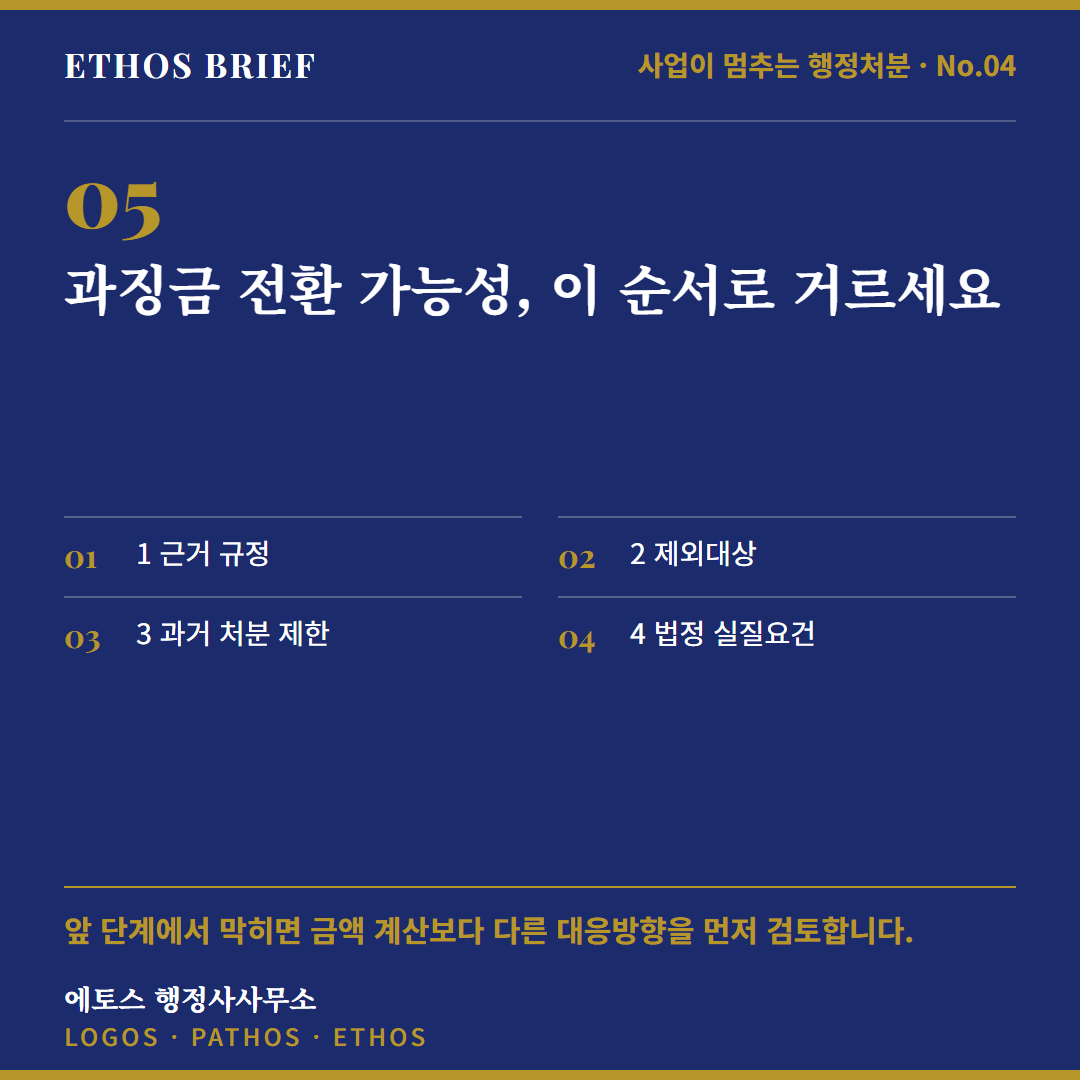
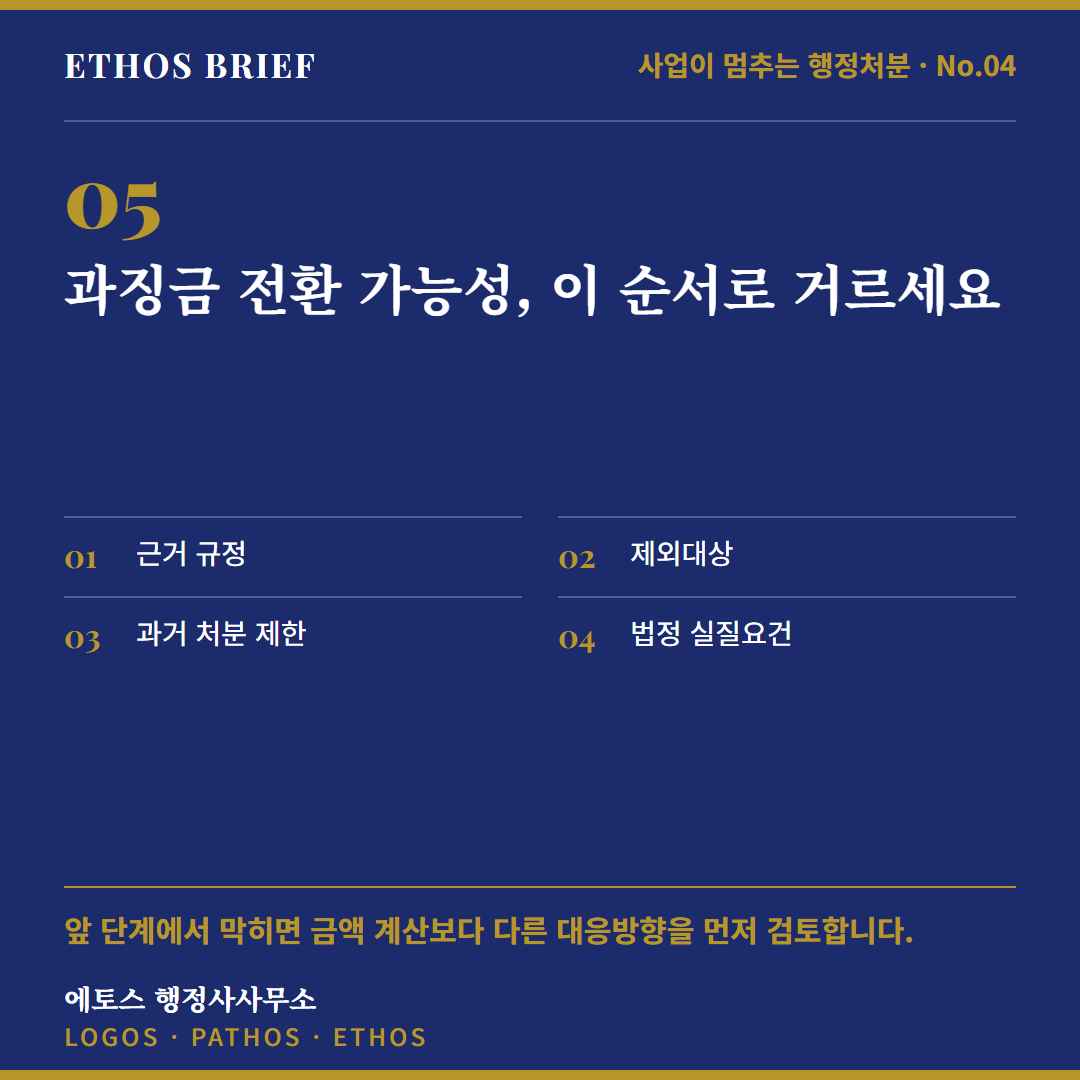
fix: remove duplicate step numbering

Changed region(s): [[0.5806, 0.4889, 0.7639, 0.6111], [0.1222, 0.55, 0.3056, 0.6111], [0.1222, 0.4889, 0.2444, 0.5194]]

diff --git a/content/SUSPENSION-SURCHARGE-04/ko/card_10.html b/content/SUSPENSION-SURCHARGE-04/ko/card_10.html
@@ -11,7 +11,7 @@
   <div class="hl" data-frame="line"></div>
   <div class="body">
     <div class="z-title" data-zone="title"><div class="kicker-num" data-decor>10</div><h2 class="h2" data-role="headline">과징금은 출발점이 아니라 네 번째 판단입니다</h2></div>
-    <div class="z-main" data-zone="main"><div class="six-grid"><div class="six-item"><div class="six-num" data-role="label">01</div><div class="six-copy">1 위반사실이 맞는가</div></div><div class="six-item"><div class="six-num" data-role="label">02</div><div class="six-copy">2 적용조항·처분기준이 맞는가</div></div><div class="six-item"><div class="six-num" data-role="label">03</div><div class="six-copy">3 영업정지기간이 맞는가</div></div><div class="six-item"><div class="six-num" data-role="label">04</div><div class="six-copy">4 과징금 전환이 가능한가</div></div><div class="six-item"><div class="six-num" data-role="label">05</div><div class="six-copy">5 전환이 실제로 유리한가</div></div></div></div>
+    <div class="z-main" data-zone="main"><div class="six-grid"><div class="six-item"><div class="six-num" data-role="label">01</div><div class="six-copy">위반사실이 맞는가</div></div><div class="six-item"><div class="six-num" data-role="label">02</div><div class="six-copy">적용조항·처분기준이 맞는가</div></div><div class="six-item"><div class="six-num" data-role="label">03</div><div class="six-copy">영업정지기간이 맞는가</div></div><div class="six-item"><div class="six-num" data-role="label">04</div><div class="six-copy">과징금 전환이 가능한가</div></div><div class="six-item"><div class="six-num" data-role="label">05</div><div class="six-copy">전환이 실제로 유리한가</div></div></div></div>
     <div class="z-take" data-zone="take"><div class="take" data-role="takeaway">사전통지서·과거 처분내역·매출 및 고정비 자료를 바탕으로 전환 가능성, 예상 과징금 확인 경로, 실제 실익의 검토 순서를 무료로 확인할 수 있습니다.</div></div>
   </div>
 

diff --git a/content/SUSPENSION-SURCHARGE-04/en/card_10.html b/content/SUSPENSION-SURCHARGE-04/en/card_10.html
@@ -11,7 +11,7 @@
   <div class="hl" data-frame="line"></div>
   <div class="body">
     <div class="z-title" data-zone="title"><div class="kicker-num" data-decor>10</div><h2 class="h2" data-role="headline">A surcharge is step four—not step one</h2></div>
-    <div class="z-main" data-zone="main"><div class="six-grid"><div class="six-item"><div class="six-num" data-role="label">01</div><div class="six-copy">1 Are the facts correct?</div></div><div class="six-item"><div class="six-num" data-role="label">02</div><div class="six-copy">2 Are the provision and standard correct?</div></div><div class="six-item"><div class="six-num" data-role="label">03</div><div class="six-copy">3 Is the suspension period correct?</div></div><div class="six-item"><div class="six-num" data-role="label">04</div><div class="six-copy">4 Is a surcharge available?</div></div><div class="six-item"><div class="six-num" data-role="label">05</div><div class="six-copy">5 Would conversion help?</div></div></div></div>
+    <div class="z-main" data-zone="main"><div class="six-grid"><div class="six-item"><div class="six-num" data-role="label">01</div><div class="six-copy">Are the facts correct?</div></div><div class="six-item"><div class="six-num" data-role="label">02</div><div class="six-copy">Are the provision and standard correct?</div></div><div class="six-item"><div class="six-num" data-role="label">03</div><div class="six-copy">Is the suspension period correct?</div></div><div class="six-item"><div class="six-num" data-role="label">04</div><div class="six-copy">Is a surcharge available?</div></div><div class="six-item"><div class="six-num" data-role="label">05</div><div class="six-copy">Would conversion help?</div></div></div></div>
     <div class="z-take" data-zone="take"><div class="take" data-role="takeaway">A free review can use your notice, prior dispositions and financial records to map eligibility, the calculation route and business impact.</div></div>
   </div>
 

diff --git a/content/SUSPENSION-SURCHARGE-04/ko/card_02.html b/content/SUSPENSION-SURCHARGE-04/ko/card_02.html
@@ -11,7 +11,7 @@
   <div class="hl" data-frame="line"></div>
   <div class="body">
     <div class="z-title" data-zone="title"><div class="kicker-num" data-decor>02</div><h2 class="h2" data-role="headline">과징금 계산보다 먼저, 네 가지를 확인하세요</h2></div>
-    <div class="z-main" data-zone="main"><div class="thresholds"><div class="threshold"><div class="threshold-key" data-role="label">1</div><div class="threshold-copy">① 근거법률에 과징금 규정이 있나요?</div></div><div class="threshold"><div class="threshold-key" data-role="label">2</div><div class="threshold-copy">② 이번 위반은 제외대상인가요?</div></div><div class="threshold"><div class="threshold-key" data-role="label">3</div><div class="threshold-copy">③ 과거 처분 때문에 제한되나요?</div></div><div class="threshold"><div class="threshold-key" data-role="label">4</div><div class="threshold-copy">④ 가능하다면 실제로 유리한가요?</div></div></div></div>
+    <div class="z-main" data-zone="main"><div class="thresholds"><div class="threshold"><div class="threshold-key" data-role="label">1</div><div class="threshold-copy">근거법률에 과징금 규정이 있나요?</div></div><div class="threshold"><div class="threshold-key" data-role="label">2</div><div class="threshold-copy">이번 위반은 제외대상인가요?</div></div><div class="threshold"><div class="threshold-key" data-role="label">3</div><div class="threshold-copy">과거 처분 때문에 제한되나요?</div></div><div class="threshold"><div class="threshold-key" data-role="label">4</div><div class="threshold-copy">가능하다면 실제로 유리한가요?</div></div></div></div>
     <div class="z-take" data-zone="take"><div class="editorial-close" data-role="takeaway">가능성과 실익은 서로 다른 질문입니다.</div></div>
   </div>
 

diff --git a/content/SUSPENSION-SURCHARGE-04/en/card_02.html b/content/SUSPENSION-SURCHARGE-04/en/card_02.html
@@ -11,7 +11,7 @@
   <div class="hl" data-frame="line"></div>
   <div class="body">
     <div class="z-title" data-zone="title"><div class="kicker-num" data-decor>02</div><h2 class="h2" data-role="headline">Before estimating the amount, run these four checks</h2></div>
-    <div class="z-main" data-zone="main"><div class="thresholds"><div class="threshold"><div class="threshold-key" data-role="label">1</div><div class="threshold-copy">1 Does the governing Act allow a surcharge?</div></div><div class="threshold"><div class="threshold-key" data-role="label">2</div><div class="threshold-copy">2 Is this violation excluded?</div></div><div class="threshold"><div class="threshold-key" data-role="label">3</div><div class="threshold-copy">3 Does a prior disposition restrict it?</div></div><div class="threshold"><div class="threshold-key" data-role="label">4</div><div class="threshold-copy">4 If available, would it actually help?</div></div></div></div>
+    <div class="z-main" data-zone="main"><div class="thresholds"><div class="threshold"><div class="threshold-key" data-role="label">1</div><div class="threshold-copy">Does the governing Act allow a surcharge?</div></div><div class="threshold"><div class="threshold-key" data-role="label">2</div><div class="threshold-copy">Is this violation excluded?</div></div><div class="threshold"><div class="threshold-key" data-role="label">3</div><div class="threshold-copy">Does a prior disposition restrict it?</div></div><div class="threshold"><div class="threshold-key" data-role="label">4</div><div class="threshold-copy">If available, would it actually help?</div></div></div></div>
     <div class="z-take" data-zone="take"><div class="editorial-close" data-role="takeaway">Legal availability and business value are different questions.</div></div>
   </div>
 

diff --git a/content/SUSPENSION-SURCHARGE-04/en/card_05.html b/content/SUSPENSION-SURCHARGE-04/en/card_05.html
@@ -11,7 +11,7 @@
   <div class="hl" data-frame="line"></div>
   <div class="body">
     <div class="z-title" data-zone="title"><div class="kicker-num" data-decor>05</div><h2 class="h2" data-role="headline">Screen surcharge eligibility in this order</h2></div>
-    <div class="z-main" data-zone="main"><div class="process-steps"><div class="process-step"><div class="process-num" data-decor>01</div><div class="process-copy">1 Enabling provision</div></div><div class="process-step"><div class="process-num" data-decor>02</div><div class="process-copy">2 Statutory exclusions</div></div><div class="process-step"><div class="process-num" data-decor>03</div><div class="process-copy">3 Prior-disposition limits</div></div><div class="process-step"><div class="process-num" data-decor>04</div><div class="process-copy">4 Substantive conditions</div></div></div></div>
+    <div class="z-main" data-zone="main"><div class="process-steps"><div class="process-step"><div class="process-num" data-decor>01</div><div class="process-copy">Enabling provision</div></div><div class="process-step"><div class="process-num" data-decor>02</div><div class="process-copy">Statutory exclusions</div></div><div class="process-step"><div class="process-num" data-decor>03</div><div class="process-copy">Prior-disposition limits</div></div><div class="process-step"><div class="process-num" data-decor>04</div><div class="process-copy">Substantive conditions</div></div></div></div>
     <div class="z-take" data-zone="take"><div class="editorial-close" data-role="takeaway">If an early gate fails, consider another response before calculating the amount.</div></div>
   </div>
 

diff --git a/content/SUSPENSION-SURCHARGE-04/ko/card_05.html b/content/SUSPENSION-SURCHARGE-04/ko/card_05.html
@@ -11,7 +11,7 @@
   <div class="hl" data-frame="line"></div>
   <div class="body">
     <div class="z-title" data-zone="title"><div class="kicker-num" data-decor>05</div><h2 class="h2" data-role="headline">과징금 전환 가능성, 이 순서로 거르세요</h2></div>
-    <div class="z-main" data-zone="main"><div class="process-steps"><div class="process-step"><div class="process-num" data-decor>01</div><div class="process-copy">1 근거 규정</div></div><div class="process-step"><div class="process-num" data-decor>02</div><div class="process-copy">2 제외대상</div></div><div class="process-step"><div class="process-num" data-decor>03</div><div class="process-copy">3 과거 처분 제한</div></div><div class="process-step"><div class="process-num" data-decor>04</div><div class="process-copy">4 법정 실질요건</div></div></div></div>
+    <div class="z-main" data-zone="main"><div class="process-steps"><div class="process-step"><div class="process-num" data-decor>01</div><div class="process-copy">근거 규정</div></div><div class="process-step"><div class="process-num" data-decor>02</div><div class="process-copy">제외대상</div></div><div class="process-step"><div class="process-num" data-decor>03</div><div class="process-copy">과거 처분 제한</div></div><div class="process-step"><div class="process-num" data-decor>04</div><div class="process-copy">법정 실질요건</div></div></div></div>
     <div class="z-take" data-zone="take"><div class="editorial-close" data-role="takeaway">앞 단계에서 막히면 금액 계산보다 다른 대응방향을 먼저 검토합니다.</div></div>
   </div>
 

diff --git a/scripts/build_cards.py b/scripts/build_cards.py
@@ -5,6 +5,7 @@ import argparse
 import html
 import json
 import pathlib
+import re
 
 
 def esc(value):
@@ -19,6 +20,11 @@ def split_label(text):
         label, copy = text.split(" — ", 1)
         return label.strip(), copy.strip()
     return "", text.strip()
+
+
+def strip_step_prefix(text):
+    """Remove author-supplied list numbers when the layout renders its own."""
+    return re.sub(r"^\s*(?:[①②③④⑤⑥⑦⑧⑨⑩]|\d{1,2}[.)]?)\s+", "", str(text)).strip()
 
 
 def main_markup(card, language):
@@ -52,7 +58,7 @@ def main_markup(card, language):
     if kind == "process":
         items = []
         for index, copy in enumerate(body, 1):
-            clean = copy[2:].strip() if len(copy) > 2 and copy[0] in "①②③④⑤⑥" else copy
+            clean = strip_step_prefix(copy)
             items.append(f'<div class="process-step"><div class="process-num" data-decor>{index:02d}</div><div class="process-copy">{esc(clean)}</div></div>')
         return '<div class="process-steps">' + ''.join(items) + '</div>'
     if kind == "checklist" and page == 6:
@@ -65,7 +71,7 @@ def main_markup(card, language):
         else:
             labels = [str(i) for i in range(1, len(body) + 1)]
         for label, copy in zip(labels, body):
-            rows.append(f'<div class="threshold"><div class="threshold-key" data-role="label">{esc(label)}</div><div class="threshold-copy">{esc(copy)}</div></div>')
+            rows.append(f'<div class="threshold"><div class="threshold-key" data-role="label">{esc(label)}</div><div class="threshold-copy">{esc(strip_step_prefix(copy))}</div></div>')
         return '<div class="thresholds">' + ''.join(rows) + '</div>'
     if kind == "cta":
         if len(body) == 2:
@@ -76,7 +82,7 @@ def main_markup(card, language):
             return '<div class="split">' + ''.join(cols) + '</div>'
         items = []
         for index, copy in enumerate(body, 1):
-            clean = copy[2:].strip() if len(copy) > 2 and copy[0] in "①②③④⑤⑥" else copy
+            clean = strip_step_prefix(copy)
             items.append(f'<div class="six-item"><div class="six-num" data-role="label">{index:02d}</div><div class="six-copy">{esc(clean)}</div></div>')
         return '<div class="six-grid">' + ''.join(items) + '</div>'
     return '<div class="body-text">' + '<br>'.join(esc(x) for x in body) + '</div>'

diff --git a/content/SUSPENSION-SURCHARGE-04/out/en/qa-report.md b/content/SUSPENSION-SURCHARGE-04/out/en/qa-report.md
@@ -5,18 +5,18 @@
 | 카드 | 유형 | 글자수 | 본문 채움 | 하단 여백 | 결과 |
 |---|---|---|---|---|---|
 | card_01.html | cover | 178 | 0.6 | 14 | PASS |
-| card_02.html | checklist | 232 | 0.64 | 14 | PASS |
+| card_02.html | checklist | 228 | 0.64 | 14 | PASS |
 | card_03.html | quote | 326 | 0.59 | 14 | PASS |
 | card_04.html | comparison | 268 | 0.85 | 14 | PASS |
-| card_05.html | process | 200 | 0.37 | 14 | PASS |
+| card_05.html | process | 196 | 0.37 | 14 | PASS |
 | card_06.html | quote | 332 | 0.63 | 14 | PASS |
 | card_07.html | checklist | 246 | 0.76 | 14 | PASS |
 | card_08.html | comparison | 242 | 0.79 | 14 | PASS |
 | card_09.html | concept | 258 | 0.92 | 14 | PASS |
-| card_10.html | cta | 290 | 1.0 | 14 | PASS |
+| card_10.html | cta | 285 | 1.0 | 14 | PASS |
 
 ### card_02.html 권고
-- chars 232 > 권장 180 (가독성 확인)
+- chars 228 > 권장 180 (가독성 확인)
 - headline-chars 44 > 권장 34
 
 ### card_03.html 권고
@@ -29,7 +29,7 @@
 
 ### card_05.html 권고
 - main-fill 0.37 < 권장 0.4 (여백이 의도적인지 시각 확인)
-- chars 200 > 권장 180 (가독성 확인)
+- chars 196 > 권장 180 (가독성 확인)
 - headline-chars 37 > 권장 34
 
 ### card_06.html 권고
@@ -48,7 +48,7 @@
 - headline-chars 38 > 권장 34
 
 ### card_10.html 권고
-- chars 290 > 권장 180 (가독성 확인)
+- chars 285 > 권장 180 (가독성 확인)
 
 ## 사람이 확인할 것 (자동화 불가)
 - [ ] 법령·판례 해석이 원문과 일치하는가 (변호사·행정사 최종 확인)

diff --git a/content/SUSPENSION-SURCHARGE-04/out/ko/qa-report.md b/content/SUSPENSION-SURCHARGE-04/out/ko/qa-report.md
@@ -5,15 +5,15 @@
 | 카드 | 유형 | 글자수 | 본문 채움 | 하단 여백 | 결과 |
 |---|---|---|---|---|---|
 | card_01.html | cover | 84 | 0.57 | 14 | PASS |
-| card_02.html | checklist | 101 | 0.75 | 14 | PASS |
+| card_02.html | checklist | 97 | 0.75 | 14 | PASS |
 | card_03.html | quote | 139 | 0.6 | 14 | PASS |
 | card_04.html | comparison | 113 | 0.75 | 14 | PASS |
-| card_05.html | process | 80 | 0.29 | 14 | PASS |
+| card_05.html | process | 76 | 0.29 | 14 | PASS |
 | card_06.html | quote | 133 | 0.71 | 14 | PASS |
 | card_07.html | checklist | 93 | 0.79 | 14 | PASS |
 | card_08.html | comparison | 97 | 0.63 | 14 | PASS |
 | card_09.html | concept | 125 | 0.75 | 14 | PASS |
-| card_10.html | cta | 151 | 0.88 | 14 | PASS |
+| card_10.html | cta | 146 | 0.76 | 14 | PASS |
 
 ### card_05.html 권고
 - main-fill 0.29 < 권장 0.4 (여백이 의도적인지 시각 확인)
